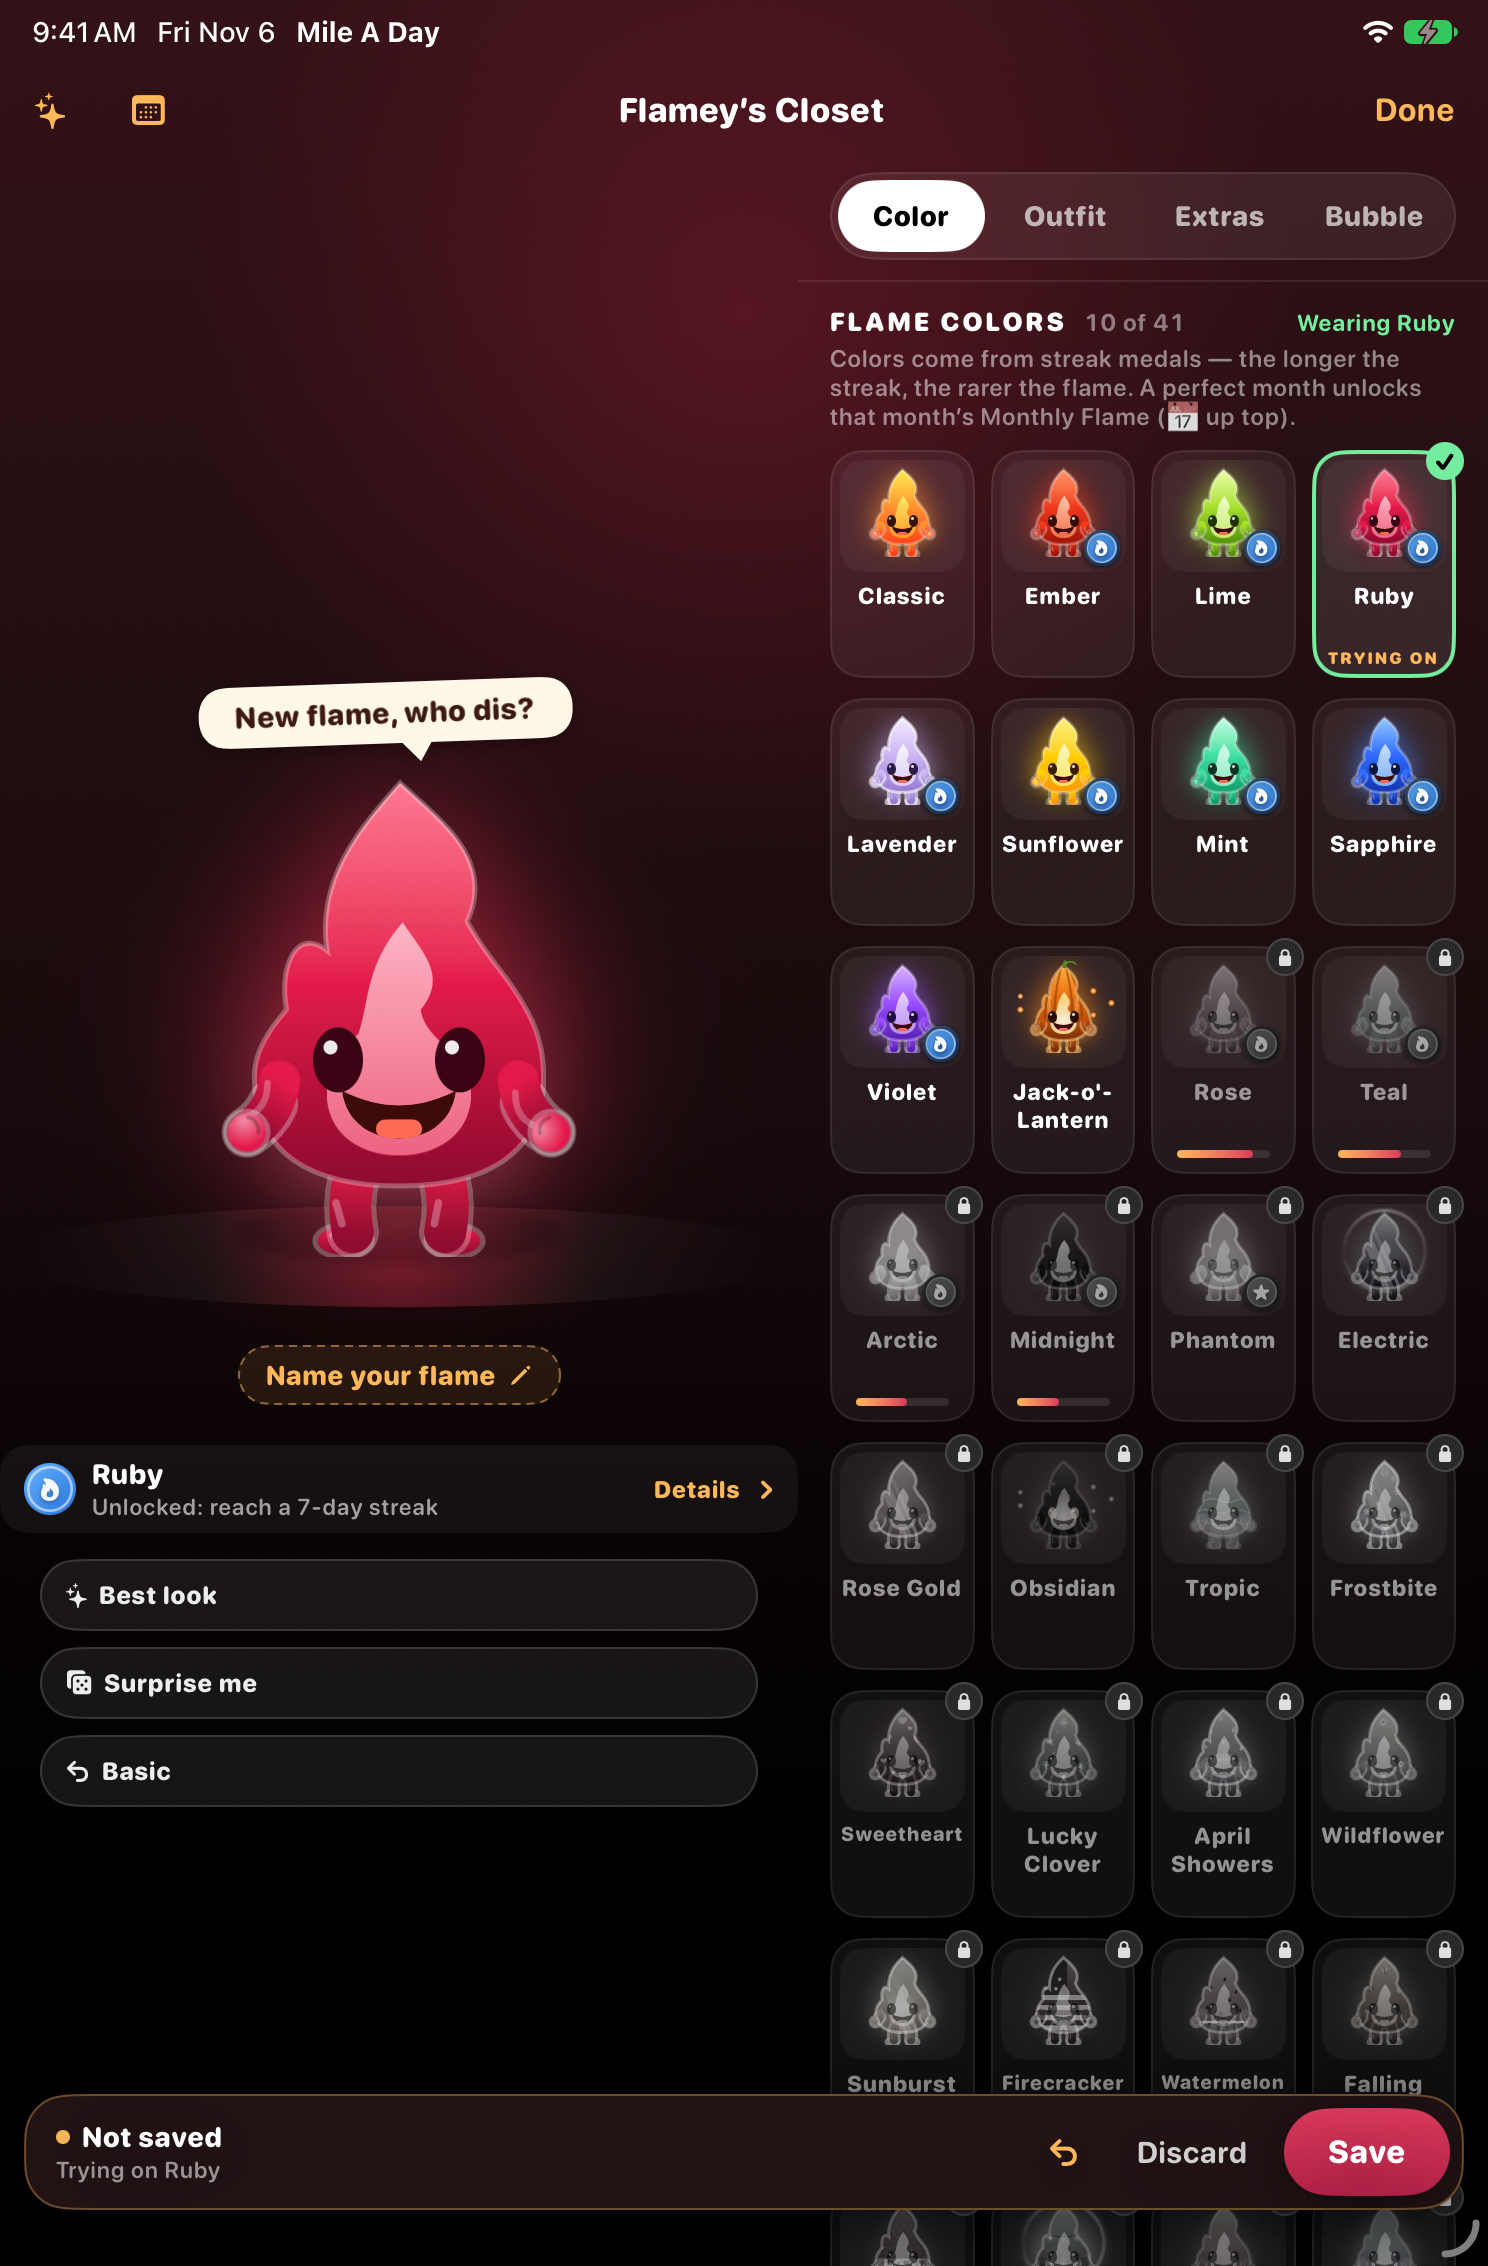
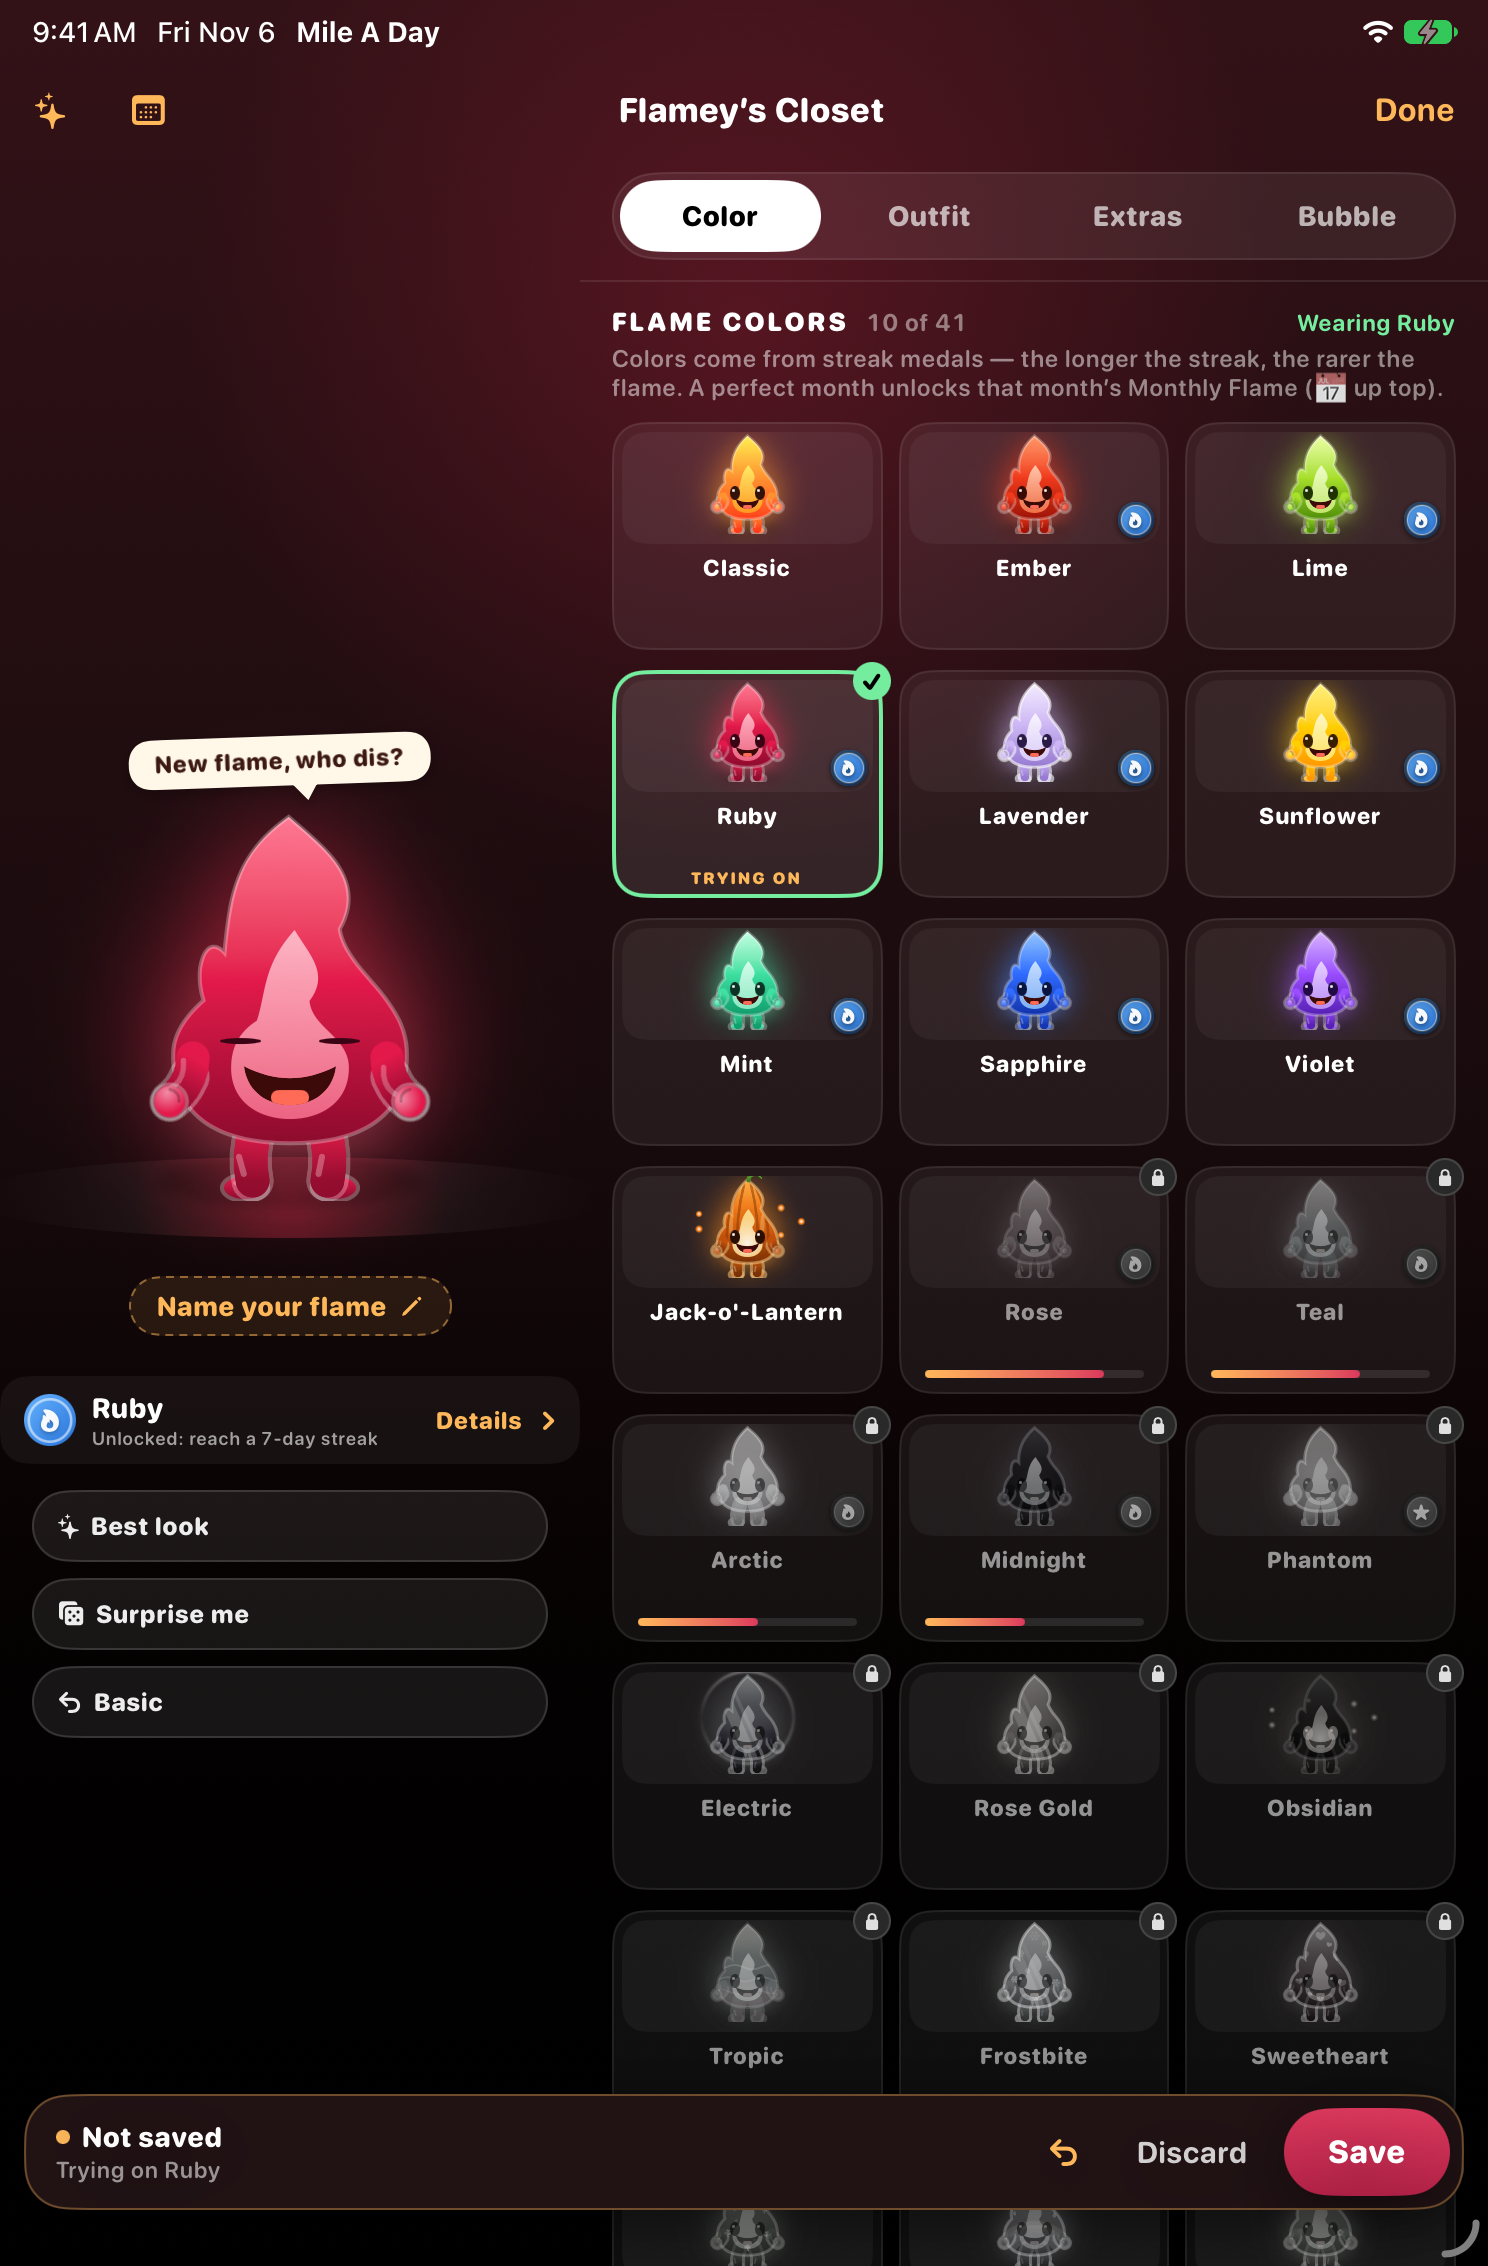
Duo layouts: fit the real 669pt inner width
At the inner display's true width the wardrobe broke names mid-word and
Share Studio clipped its stat chips, so the side panels now take a fixed
width and the wardrobe uses three columns. Share Studio checks its own
width so a sheet stays single column. The buddy map follows you closely
and shows a searching state until there's a fix, instead of a continent.

diff --git a/app/Mile A Day/Views/Duo/DuoBuddyPanel.swift b/app/Mile A Day/Views/Duo/DuoBuddyPanel.swift
@@ -6,27 +6,70 @@ import MapKit
 /// nothing here reads or sends anyone's location.
 struct DuoBuddyPanel<Roster: View>: View {
     @ViewBuilder let roster: () -> Roster
-    @State private var position: MapCameraPosition = .userLocation(fallback: .automatic)
+
+    /// Close enough to read the next few blocks at a glance mid-walk.
+    private var followDistance: CLLocationDistance { 1_100 }
+
+    @State private var trail: [CLLocationCoordinate2D] = []
+    @State private var position: MapCameraPosition = .automatic
 
     var body: some View {
         VStack(spacing: 12) {
-            TimelineView(.periodic(from: .now, by: 3)) { _ in
-                let trail = WorkoutLocationManager.shared.duoTrail
-                Map(position: $position, interactionModes: [.zoom, .pan]) {
-                    UserAnnotation()
-                    if trail.count > 1 {
-                        MapPolyline(coordinates: trail)
-                            .stroke(MADTheme.Colors.madRed, style: StrokeStyle(lineWidth: 5, lineCap: .round, lineJoin: .round))
+            ZStack {
+                if let here = trail.last {
+                    Map(position: $position, interactionModes: []) {
+                        if trail.count > 1 {
+                            MapPolyline(coordinates: trail)
+                                .stroke(MADTheme.Colors.madRed,
+                                        style: StrokeStyle(lineWidth: 6, lineCap: .round, lineJoin: .round))
+                        }
+                        Annotation("You", coordinate: here) {
+                            Circle()
+                                .fill(MADTheme.Colors.madRed)
+                                .frame(width: 18, height: 18)
+                                .overlay(Circle().strokeBorder(.white, lineWidth: 3))
+                        }
+                        .annotationTitles(.hidden)
                     }
+                    .mapStyle(.standard(elevation: .flat, pointsOfInterest: .excludingAll))
+                } else {
+                    // Never the map's own fallback: with no fix it shows a
+                    // whole continent.
+                    VStack(spacing: 10) {
+                        Image(systemName: "location.magnifyingglass")
+                            .font(.system(size: 30, weight: .semibold))
+                            .accessibilityHidden(true)
+                        Text("Finding your route")
+                            .madFont(size: 15, weight: .semibold, design: .rounded, maxScale: 1.3)
+                    }
+                    .foregroundColor(.white.opacity(0.8))
+                    .frame(maxWidth: .infinity, maxHeight: .infinity)
+                    .background(Color.black.opacity(0.22))
                 }
-                .mapStyle(.standard(elevation: .flat, pointsOfInterest: .excludingAll))
             }
             .clipShape(RoundedRectangle(cornerRadius: 20, style: .continuous))
             .accessibilityLabel("Your live route")
+            .task {
+                // A slow poll, not a publisher: one fix a second must never
+                // redraw the tracker around this map.
+                while !Task.isCancelled {
+                    refresh()
+                    try? await Task.sleep(for: .seconds(3))
+                }
+            }
 
             roster()
         }
         .padding(.trailing, 16)
         .padding(.bottom, 12)
+    }
+
+    private func refresh() {
+        let latest = WorkoutLocationManager.shared.duoTrail
+        guard latest.count != trail.count, let here = latest.last else { return }
+        trail = latest
+        withAnimation(.easeInOut(duration: 1)) {
+            position = .camera(MapCamera(centerCoordinate: here, distance: followDistance))
+        }
     }
 }

diff --git a/app/Mile A Day/Views/ShareCards/ShareStudioView.swift b/app/Mile A Day/Views/ShareCards/ShareStudioView.swift
@@ -56,6 +56,10 @@ struct ShareStudioView: View {
     var initialTemplate: ShareTemplate? = nil
 
     @Environment(\.duoSpread) private var duoSpread
+    /// This view's own width: presented as a sheet it can be far narrower
+    /// than the window `duoSpread` measures.
+    @State private var ownWidth: CGFloat = 0
+    private var usesTwoPages: Bool { duoSpread && ownWidth >= DuoDevice.spreadMinWidth }
     @Environment(\.dismiss) private var dismiss
     @Environment(\.accessibilityReduceMotion) private var reduceMotion
 
@@ -131,7 +135,7 @@ struct ShareStudioView: View {
 
             VStack(spacing: 0) {
                 header
-                if duoSpread {
+                if usesTwoPages {
                     // iPhone Duo's inner display: the card on one page, the
                     // styles and ways to share it on the other.
                     HStack(spacing: 0) {
@@ -151,9 +155,10 @@ struct ShareStudioView: View {
                                 options
                                 destinationsNode
                             }
-                            .padding(20)
+                            .padding(16)
                         }
-                        .frame(maxWidth: .infinity)
+                        // Fixed: the stat chips need this to fit on one row.
+                        .frame(width: 370)
                     }
                 } else {
                     if families.count > 1 {
@@ -190,6 +195,13 @@ struct ShareStudioView: View {
                 .allowsHitTesting(false)
             }
         }
+        .background(
+            GeometryReader { geo in
+                Color.clear
+                    .onAppear { ownWidth = geo.size.width }
+                    .onChange(of: geo.size.width) { _, width in ownWidth = width }
+            }
+        )
         .preferredColorScheme(.dark)
         .task { await resolveAssets() }
         .onChange(of: selection) { _, newValue in

diff --git a/app/Mile A Day/Views/Flamey/FlameyClosetView.swift b/app/Mile A Day/Views/Flamey/FlameyClosetView.swift
@@ -58,7 +58,9 @@ struct FlameyClosetView: View {
     }
 
     private var columns: [GridItem] {
-        let count = typeSize >= .accessibility1 ? 3 : 4
+        // The dressing room's wardrobe is a narrower page: four columns there
+        // break names mid-word ("Lavende/r").
+        let count = typeSize >= .accessibility1 || showsDressingRoom ? 3 : 4
         return Array(repeating: GridItem(.flexible(), spacing: 8, alignment: .top), count: count)
     }
 
@@ -71,17 +73,19 @@ struct FlameyClosetView: View {
     private var dressingRoomStage: some View {
         VStack(spacing: 12) {
             Spacer(minLength: 0)
-            stage(size: 210)
+            stage(size: 170)
             FlameyNamePlate(name: model.name) {
                 MADHaptics.tap()
                 sheet = .name
             }
             caption
             VStack(spacing: 8) { actionButtons(compact: false) }
-                .padding(.horizontal, 20)
+                .padding(.horizontal, 16)
             Spacer(minLength: 0)
         }
-        .frame(maxWidth: .infinity)
+        // Fixed, so the wardrobe gets the rest: left to share the HStack, the
+        // stage's natural width squeezed the tiles.
+        .frame(width: 290)
     }
 
     var body: some View {

diff --git a/docs/conventions/ios.md b/docs/conventions/ios.md
@@ -272,6 +272,8 @@ Known gap: most of the app still uses fixed `.font(.system(size:))` (about 2,500
 
 The gate is two tests: a hinged model AND a window at least `spreadMinWidth` wide. Folded, or narrowed in Split View, the app is the ordinary iPhone app. `.duoSpreadHost()` sits on `RootView` because the Closet's cover is presented from above the tab bar: a host on the `TabView` left it out. `DuoFlameyMomentsHost` must keep a real view (`Color.clear`): an empty body gets no lifecycle, so the hinge observer never attaches.
 
+Two-page layouts fix their side panel's width (Closet stage 290pt, Share Studio options 370pt) and let the other page flex: left to share an HStack at the real 669pt width, wardrobe names broke mid-word and stat chips clipped, none of which showed at the stand-in's 744pt. The wardrobe drops to three columns there. Share Studio also reads its OWN width (`usesTwoPages`), because as a sheet it is narrower than the window `duoSpread` measures. The buddy map follows `duoTrail` at a fixed close distance and shows "Finding your route" until a fix arrives, never MapKit's fallback, which is a whole continent.
+
 Testing: Debug builds take `-MADDuoPreview` on a wide simulator, with `TARGETED_DEVICE_FAMILY=1,2` on the xcodebuild command line only, plus `-MADDuoMoment stretch|tuck` and `-MADDuoDemo flyover|share`. `simctl location` drives the buddy route. Screenshots in `docs/duo-screenshots/` came from that iPad stand-in. If a test backend will not bind, check `lsof -iTCP:<port>`: another session's server on that port answers with its own database, which shows up as "No user found" and a 0-day streak.
 
 ## Performance
